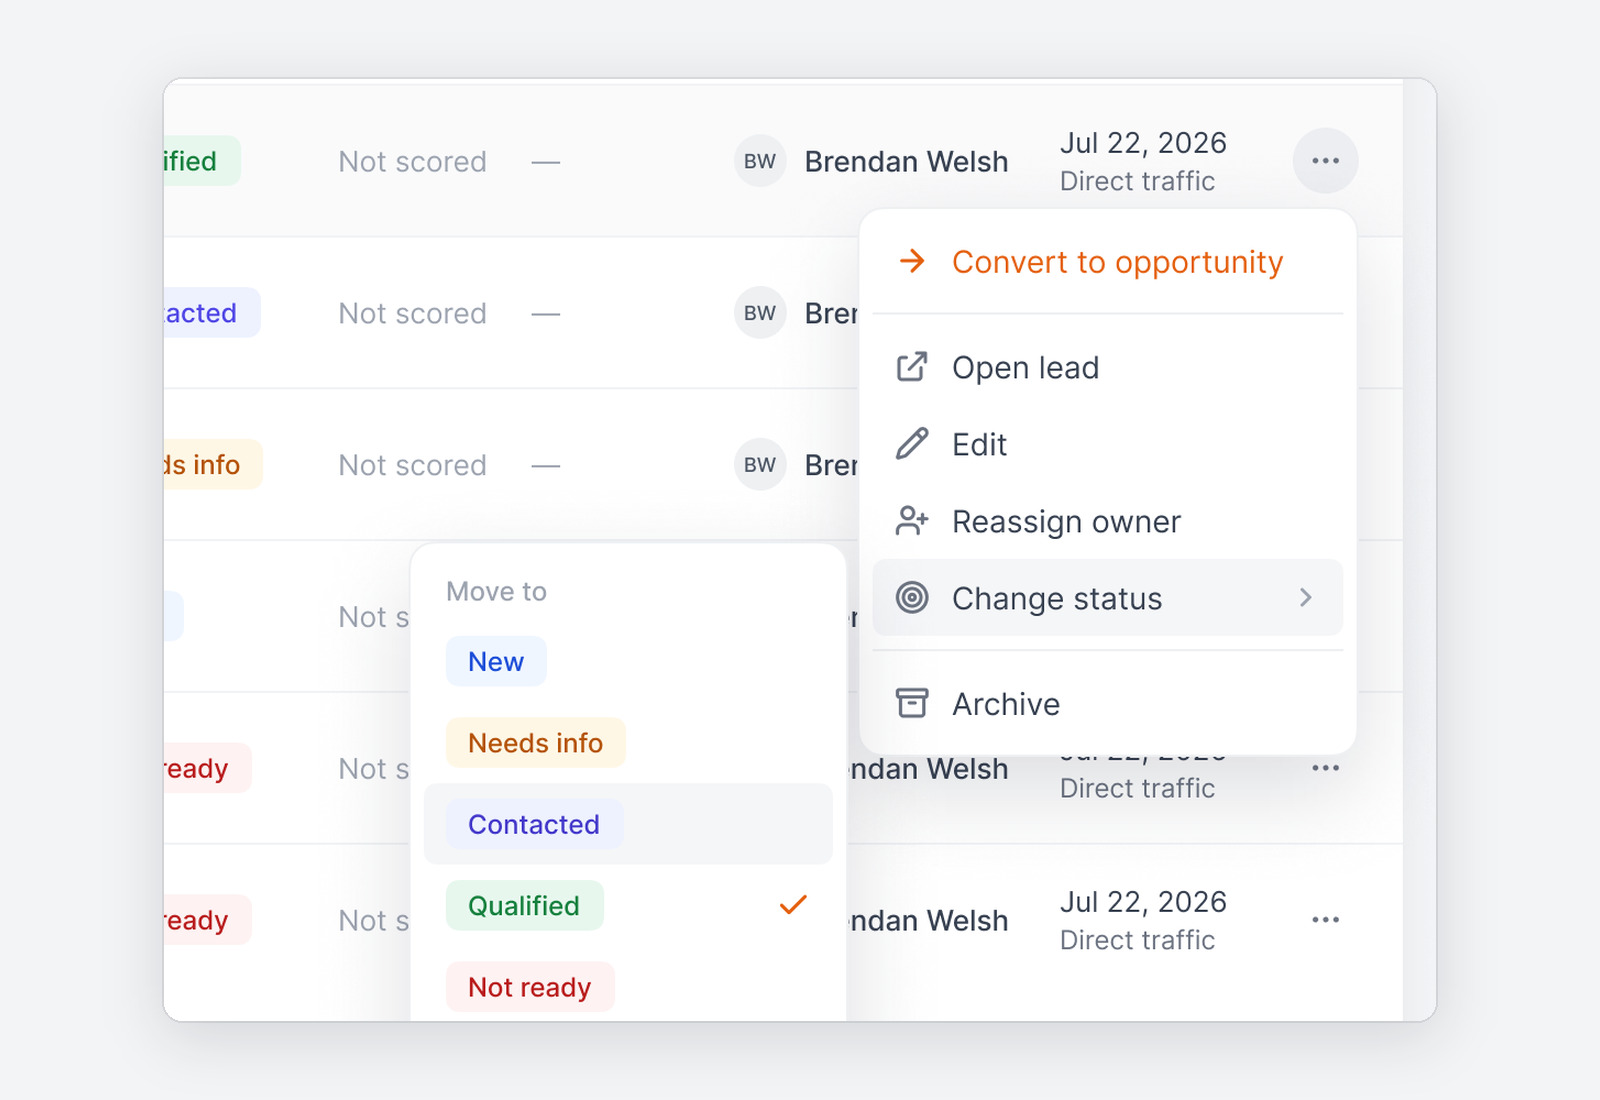
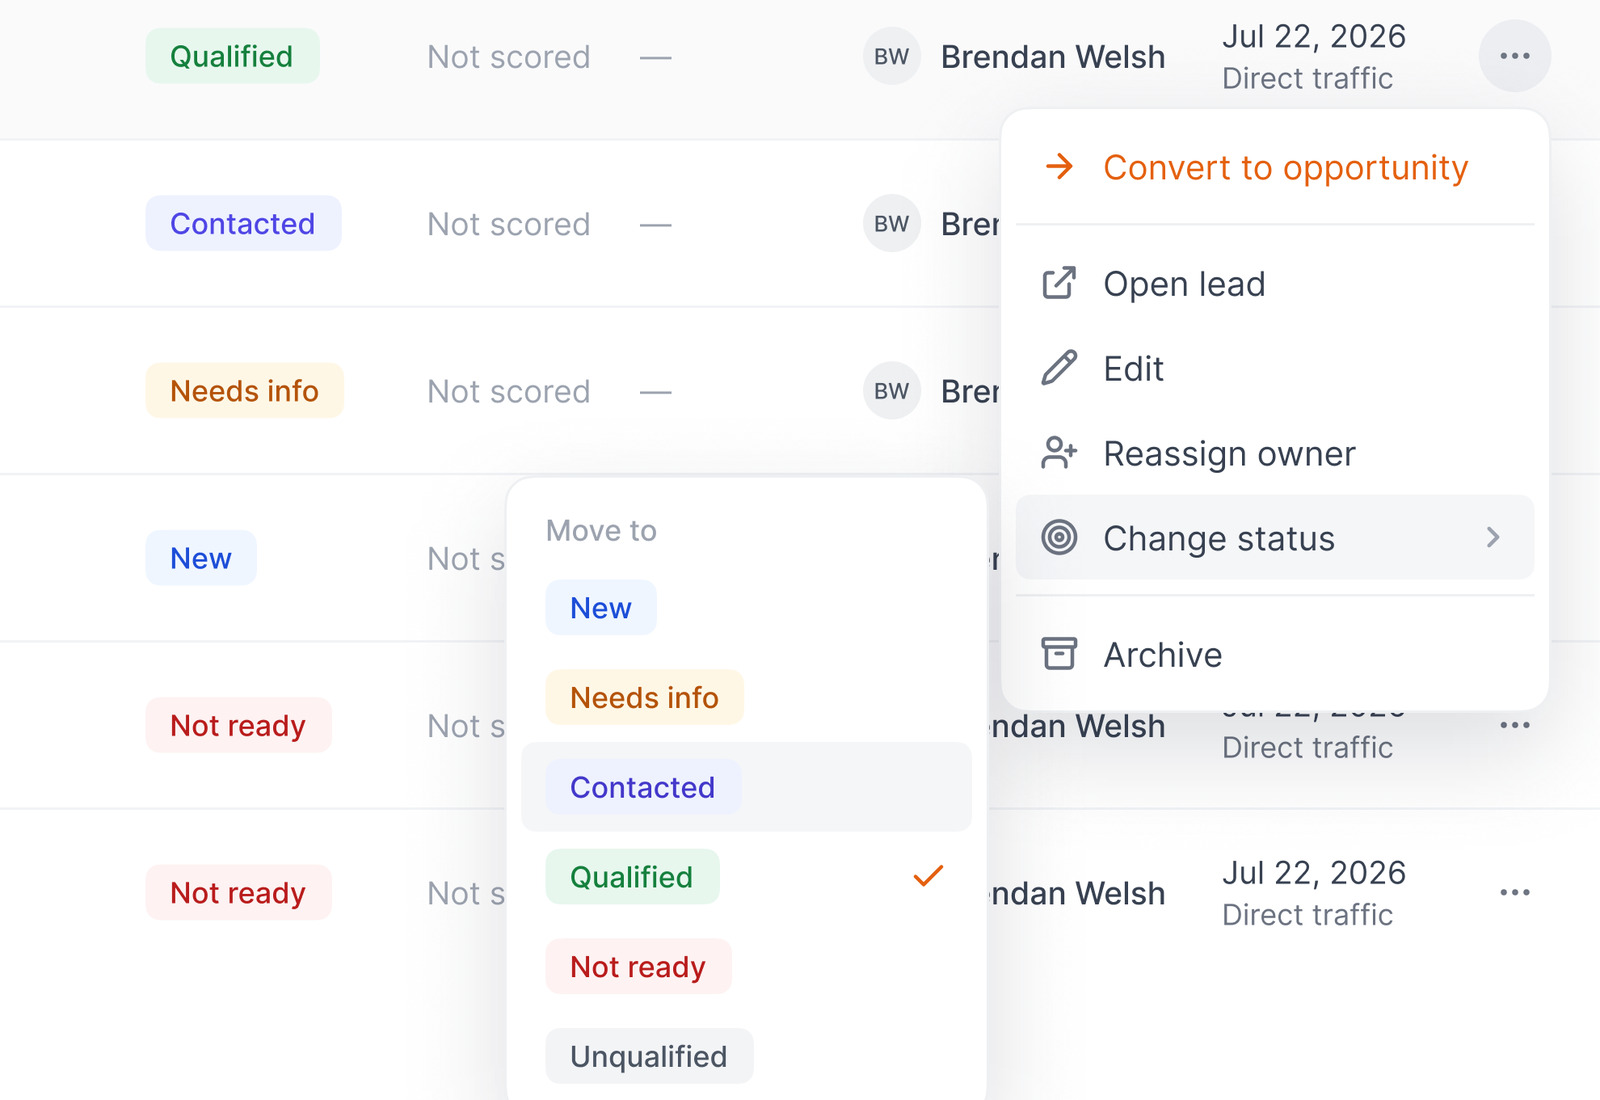
TrueScan case: problem/solution images as framed views of real screens
Re-exported 8 screens at 3x; each tile is a 16:11 window into the actual
screen with the key element fully visible and the mockup's native shadows,
no added cards or shadows.

Claude-Session: https://claude.ai/code/session_019s9hMNDEcLkm54bZicL17g

diff --git a/cases/_tools/build_truescan.py b/cases/_tools/build_truescan.py
@@ -22,18 +22,20 @@ def full(name): return Image.open(p(name)).convert('RGB')
 F.save(F.cover(p('drone_raw1'), p('lead_table')), f'{OUT}/cover.jpg')
 
 # ---------- задачи и решения: крупные фрагменты, 16:11 ----------
-T = {
-    'problem-1-list':      c('lead_table', 284, 150, 920, 560),      # вкладки статусов и строки лидов
-    'problem-2-filters':   c('kanban_filters', 284, 110, 880, 520),  # фильтры, чипы и выпадающий список Owner
-    'problem-3-actions':   c('row_menu', 860, 330, 1440, 760),       # меню строки и подменю статуса
-    'problem-4-input':     c('wiz1', 400, 204, 1040, 600),           # мастер: дубль email
-    'solution-1-convert':  c('convert', 460, 213, 980, 687),         # конвертация с превью записей
-    'solution-2-converted': c('opp_profile', 284, 16, 1000, 420),    # баннер «Converted from lead»
-    'solution-3-assign':   c('assign', 900, 250, 1424, 640),         # назначение владельца в один клик
-    'solution-4-wizard':   c('wiz2', 400, 300, 1040, 743),           # мастер: автокомплит адреса
+# кадр = окно в экран (экспорт 3x в cases/_src/truescan/x3): элемент целиком + контекст, без наложенных теней
+X3 = f'{SRC}/x3'
+V = {
+    'problem-1-list':       ('lead_table', 284, 16, 660),      # заголовок, фильтры, вкладки статусов, строки
+    'problem-2-filters':    ('kanban_filters', 284, 16, 660),  # фильтры с счётчиками, чипы, список Owner
+    'problem-3-actions':    ('row_menu', 764, 345, 660),       # меню строки и подменю статуса
+    'problem-4-input':      ('wiz1', 334, 186, 771),           # мастер целиком: дубль email
+    'solution-1-convert':   ('convert', 342, 190, 756),        # модалка конвертации целиком
+    'solution-2-converted': ('opp_profile', 284, 16, 700),     # баннер «Converted from lead», шапка сделки
+    'solution-3-assign':    ('assign', 784, 218, 640),         # колонка Owner и поповер назначения
+    'solution-4-wizard':    ('wiz2', 269, 140, 902),           # мастер целиком: автокомплит адреса
 }
-for k, im in T.items():
-    F.save(F.tile_k(im), f'{OUT}/{k}.jpg')
+for k, (n, x, y, w) in V.items():
+    F.save(F.view(f'{X3}/{n}.png', x, y, w), f'{OUT}/{k}.jpg')
 
 # ---------- флоу: фрагменты ключевых шагов ----------
 F.flow_text(f'{OUT}/flow.jpg', [

diff --git a/cases/_tools/flat.py b/cases/_tools/flat.py
@@ -189,3 +189,12 @@ def flow_text(out, steps, size=(2400, 760)):
   <div style="font-size:13px;color:#4B5563;display:flex;gap:8px;align-items:center;padding-left:4px"><span style="width:6px;height:6px;border-radius:50%;background:{'#EE6A1F' if cue else 'transparent'}"></span>{html.escape(cue)}</div></div>'''
         if not last: cells += f'<div style="width:{ar}px;display:grid;place-items:center;height:222px">{arrow}</div>'
     _render(out, f'<div style="position:absolute;inset:0;display:flex;align-items:center;padding:0 {pad}px"><div style="display:flex;align-items:flex-start;width:100%">{cells}</div></div>', size)
+
+
+def view(path, x, y, w, size=(1600, 1100), s=3):
+    """Окно в реальный экран: кадр 16:11 с ключевым элементом целиком, родные тени макета, без наложенных карточек.
+    x, y, w — левый верхний угол и ширина кадра в CSS-пикселях фрейма 1440×900; высота по пропорции."""
+    h = w * size[1] / size[0]
+    im = Image.open(path).convert('RGB')
+    x = max(0, min(x, 1440 - w)); y = max(0, min(y, 900 - h))
+    return im.crop((round(x * s), round(y * s), round((x + w) * s), round((y + h) * s))).resize(size, Image.LANCZOS)
